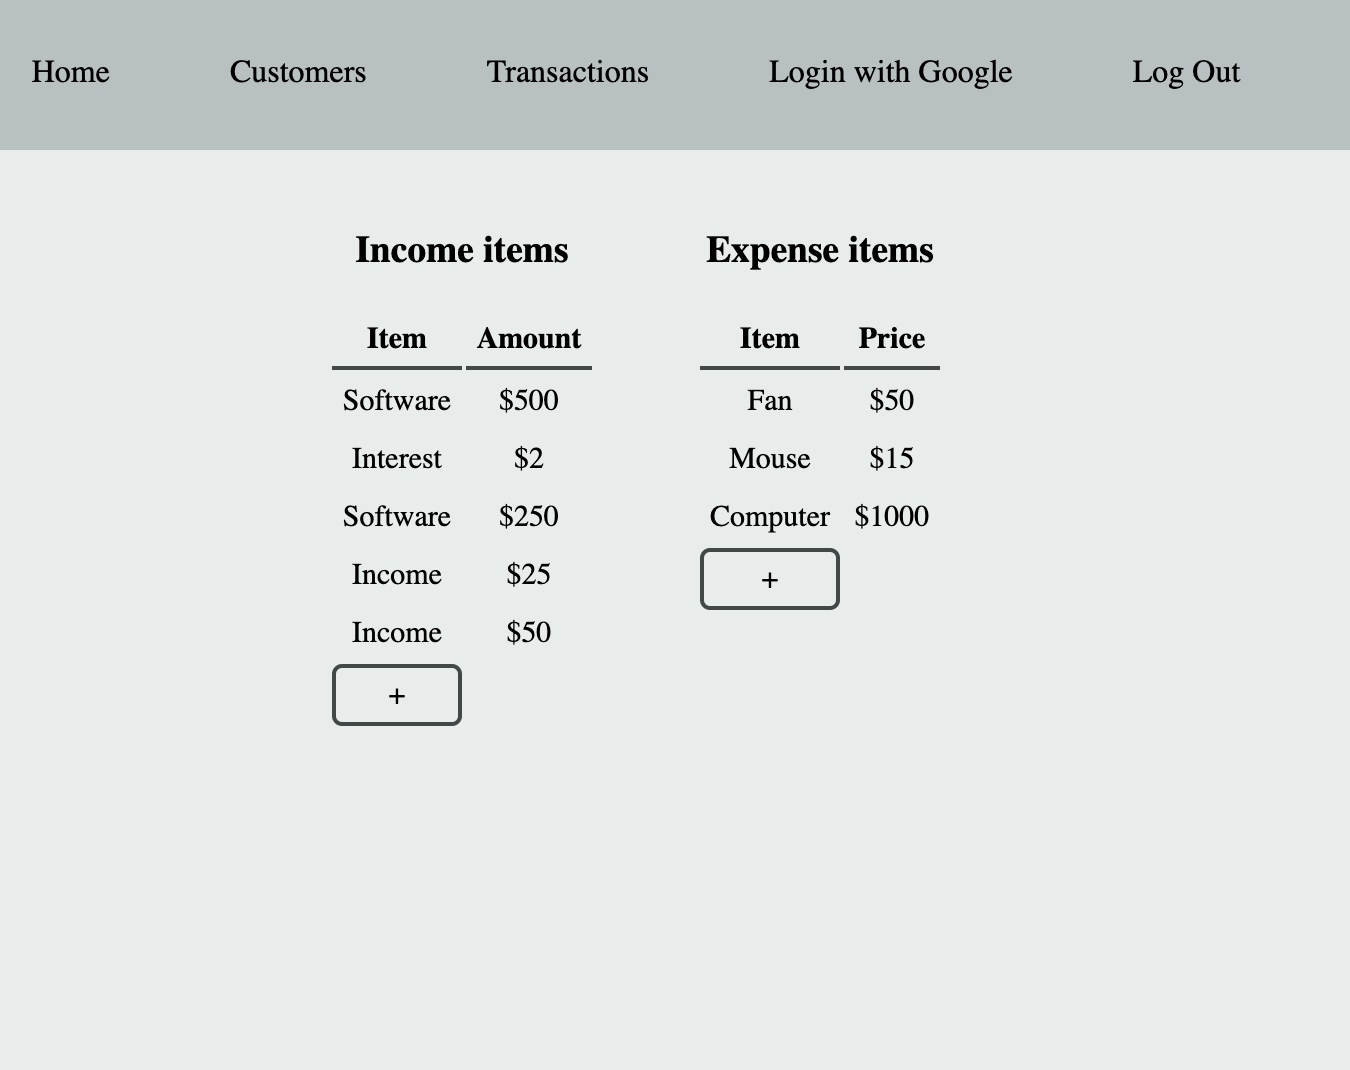
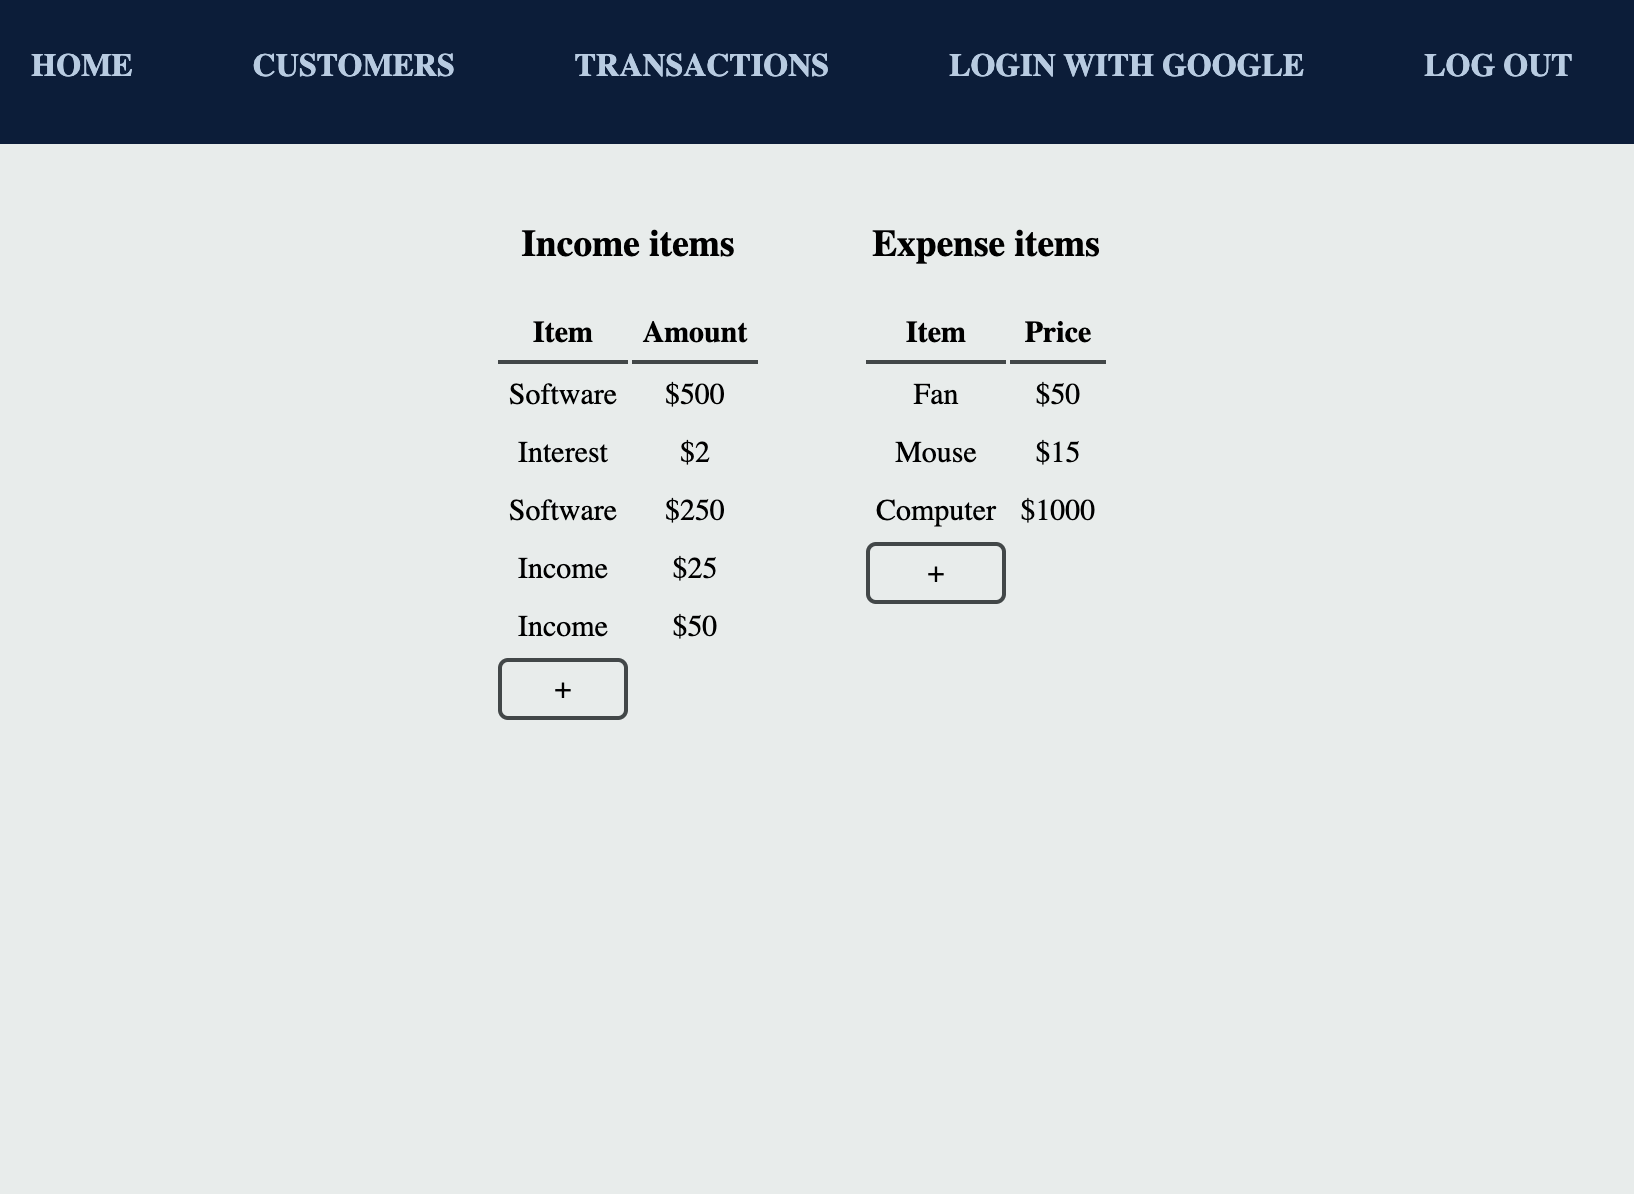
Change styling

diff --git a/public/stylesheets/style.css b/public/stylesheets/style.css
@@ -4,7 +4,7 @@ body {
 
 body > nav {
   grid-area: nav;
-  background-color: #B8C0C2;
+  background-color: #0c1c3a;
   display: flex;
   justify-content: center;
   align-items: center;
@@ -16,7 +16,8 @@ nav > a {
   text-decoration: none;
   padding: 10px;
   border-radius: 5px;
-  color: black;
+  color: rgb(183, 202, 226);
+  font-weight: bold;
 }
 
 nav > a:hover {

diff --git a/README.md b/README.md
@@ -5,10 +5,10 @@ This application is designed to help small businesses track their finances, incl
 #### Screenshots 
 
 Home page displayed upon logging in.
-<img src="https://imgur.com/QOTbuM8.png">
+<img src="https://imgur.com/pDbVQKm.png">
 
 Transactions page displayed upon entering income & expenses.
-<img src="https://imgur.com/ko0Z1HA.png">
+<img src="https://imgur.com/on7l2hE.png">
 
 #### Technologies Used
 
